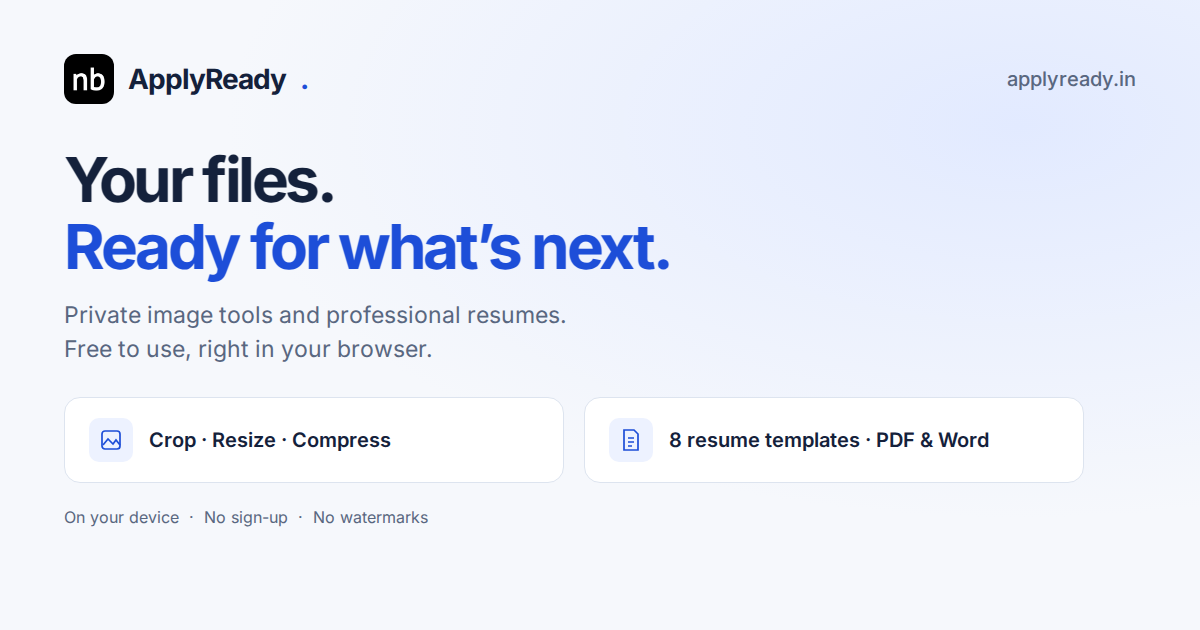
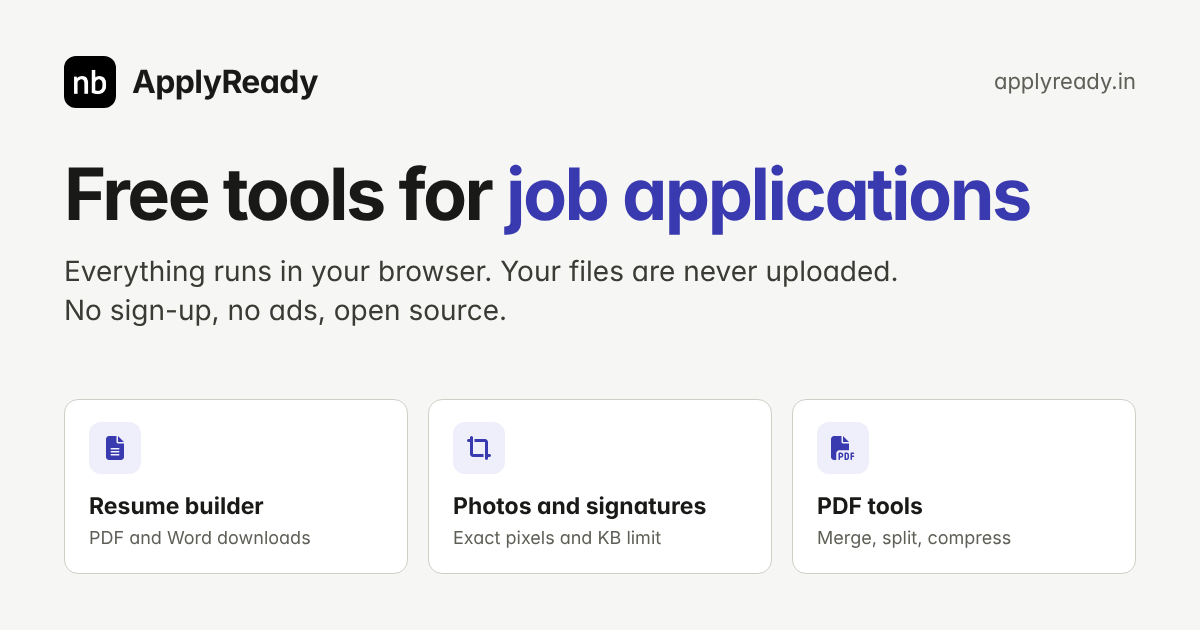
Redraw the social preview card from the site's own styles
The card every page shares advertised "8 resume templates" (there are 15)
and only image tools. scripts/make-social-card.js now draws it in Chromium
from css/app.css, Inter and the icon subset: free tools for job
applications, the promise that files stay in the browser, and the three
main areas (resume, photos and signatures, PDF tools), with no counts that
can go stale.

Claude-Session: https://claude.ai/code/session_017Y1cq7vMRxwcAq3zsHZCPV

diff --git a/scripts/make-social-card.js b/scripts/make-social-card.js
@@ -1,0 +1,79 @@
+#!/usr/bin/env node
+/* Draws assets/social-card.png, the 1200 × 630 preview image that links to ApplyReady show when
+   they are shared. It is drawn by the browser from the site's own stylesheet, fonts and icons, so it
+   matches the site. Every page uses this one image; its text description is CARD_ALT in
+   scripts/lib/social.js, so change both together. No counts or claims that can go out of date.
+
+     BROWSER_EXECUTABLE_PATH=/path/to/chromium node scripts/make-social-card.js
+
+   Needs the Playwright dev dependency (npm ci). Nothing is fetched from the network. */
+'use strict';
+const fs = require('node:fs');
+const http = require('node:http');
+const path = require('node:path');
+const { chromium } = require('playwright');
+
+const root = path.resolve(__dirname, '..');
+const OUT = path.join(root, 'assets/social-card.png');
+const MIME = { '.css': 'text/css', '.woff2': 'font/woff2', '.png': 'image/png', '.html': 'text/html' };
+
+const tile = (icon, name, text) => `<div class="tile"><span class="tile__icon"><i class="fa-solid fa-${icon}" aria-hidden="true"></i></span><span><strong>${name}</strong><span>${text}</span></span></div>`;
+
+const CARD = `<!DOCTYPE html>
+<html lang="en"><head><meta charset="UTF-8">
+<link rel="stylesheet" href="/css/vendor/icons.min.css"><link rel="stylesheet" href="/css/app.css">
+<style>
+  html, body { margin: 0; width: 1200px; height: 630px; overflow: hidden; background: var(--c-bg); }
+  .card { box-sizing: border-box; width: 1200px; height: 630px; padding: 56px 64px; display: flex; flex-direction: column; font-family: Inter, sans-serif; color: var(--c-text); }
+  .top { display: flex; align-items: center; justify-content: space-between; }
+  .brand { display: flex; align-items: center; gap: 16px; font-size: 32px; font-weight: 700; letter-spacing: -0.02em; }
+  .brand img { width: 52px; height: 52px; border-radius: 12px; }
+  .site { font-size: 22px; color: var(--c-text-3); }
+  h1 { margin: 48px 0 0; font-size: 72px; line-height: 1.05; letter-spacing: -0.035em; font-weight: 750; }
+  h1 em { font-style: normal; color: var(--c-accent); }
+  .lede { margin: 20px 0 0; font-size: 28px; line-height: 1.4; color: var(--c-text-2); }
+  .tiles { display: grid; grid-template-columns: repeat(3, 1fr); gap: 20px; margin-top: auto; }
+  .tile { display: flex; flex-direction: column; align-items: flex-start; gap: 16px; padding: 22px 24px; background: var(--c-surface); border: 1px solid var(--c-line-strong); border-radius: 14px; }
+  .tile__icon { flex: none; display: grid; place-items: center; width: 52px; height: 52px; border-radius: 12px; background: var(--c-accent-soft); color: var(--c-accent); }
+  .tile__icon .fa-solid { font-size: 24px; }
+  .tile strong { display: block; font-size: 23px; font-weight: 650; }
+  .tile span span { display: block; margin-top: 2px; font-size: 18px; color: var(--c-text-3); }
+</style></head>
+<body><div class="card">
+  <div class="top"><div class="brand"><img src="/favicon/android-chrome-192x192.png" alt="">ApplyReady</div><div class="site">applyready.in</div></div>
+  <h1>Free tools for <em>job applications</em></h1>
+  <p class="lede">Everything runs in your browser. Your files are never uploaded.<br>No sign-up, no ads, open source.</p>
+  <div class="tiles">
+    ${tile('file-lines', 'Resume builder', 'PDF and Word downloads')}
+    ${tile('crop-simple', 'Photos and signatures', 'Exact pixels and KB limit')}
+    ${tile('file-pdf', 'PDF tools', 'Merge, split, compress')}
+  </div>
+</div></body></html>`;
+
+const server = http.createServer((req, res) => {
+  const p = decodeURIComponent(new URL(req.url, 'http://x').pathname);
+  if (p === '/__card.html') { res.writeHead(200, { 'Content-Type': 'text/html' }); res.end(CARD); return; }
+  const file = path.join(root, p);
+  if (!file.startsWith(root) || !fs.existsSync(file)) { res.writeHead(404); res.end(); return; }
+  res.writeHead(200, { 'Content-Type': MIME[path.extname(file)] || 'application/octet-stream' });
+  fs.createReadStream(file).pipe(res);
+});
+
+(async () => {
+  await new Promise(r => server.listen(0, '127.0.0.1', r));
+  const exe = process.env.BROWSER_EXECUTABLE_PATH;
+  const browser = await chromium.launch({ headless: true, args: ['--no-sandbox'], ...(exe ? { executablePath: exe } : {}) });
+  try {
+    const page = await browser.newPage({ viewport: { width: 1200, height: 630 }, deviceScaleFactor: 1, colorScheme: 'light' });
+    // Font loading is "optional" on the site; here the card waits for Inter so the image never uses the fallback.
+    await page.goto(`http://127.0.0.1:${server.address().port}/__card.html`);
+    await page.evaluate(() => document.fonts.load('700 72px Inter').then(() => document.fonts.ready));
+    const inter = await page.evaluate(() => document.fonts.check('700 72px Inter'));
+    if (!inter) throw new Error('Inter did not load; the card would use a fallback font');
+    await page.screenshot({ path: OUT, clip: { x: 0, y: 0, width: 1200, height: 630 } });
+    console.log(`written ${path.relative(root, OUT)} (${fs.statSync(OUT).size} bytes)`);
+  } finally {
+    await browser.close();
+    server.close();
+  }
+})().catch(e => { console.error(e); process.exit(1); });
